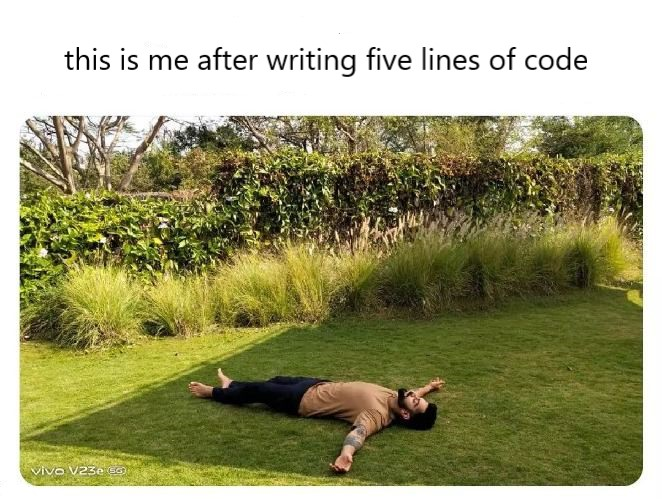
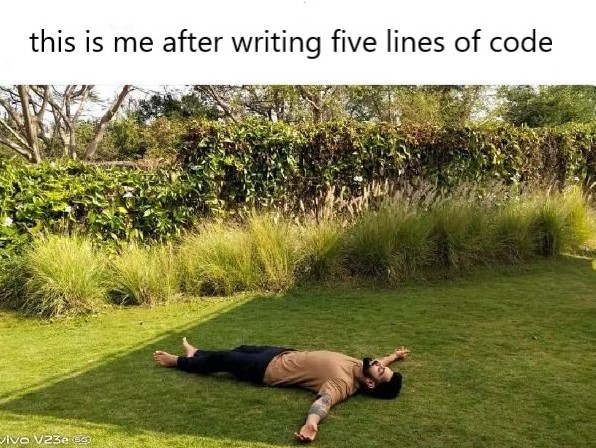
feat: fill memes, body backgroung, fill grid, vertixal and horizontal align of items (Fri, May 13, 2022 06:25:11 PM)

diff --git a/cssMemSlider/index.html b/cssMemSlider/index.html
@@ -4,6 +4,9 @@
     <meta charset="UTF-8">
     <meta http-equiv="X-UA-Compatible" content="IE=edge">
     <meta name="viewport" content="width=device-width, initial-scale=1.0">
+    <link rel="preconnect" href="https://fonts.googleapis.com">
+    <link rel="preconnect" href="https://fonts.gstatic.com" crossorigin>
+    <link href="https://fonts.googleapis.com/css2?family=Roboto:wght@300;400&display=swap" rel="stylesheet">
     <link rel="stylesheet" href="../cssMemSlider/style.css">
     <title>Meme slider</title>
 </head>
@@ -14,36 +17,43 @@
             <label for="meme1" class="slider-label slider-label1"></label>
             <div class="meme-block">
                 <img src="../cssMemSlider/assets/5stringsofcode.jpg" alt="5strings" class="meme">
-                <h2>1</h2>
-            </div>            
+            </div>
+            <p class="txt meme-text1">Every time like this</p>
 
             <input type="radio" name="slider-check" class="slider-check" id="meme2">
             <label for="meme2" class="slider-label slider-label2"></label>
             <div class="meme-block">
                 <img src="../cssMemSlider/assets/blank.jpg" alt="linter" class="meme">
-                <h2>2</h2>
-            </div>           
+            </div>
+            <p class="txt meme-text2">Do you remember the previous task?</p>
 
             <input type="radio" name="slider-check" class="slider-check" id="meme3">
             <label for="meme3" class="slider-label slider-label3"></label>
             <div class="meme-block">              
-                <img src="../cssMemSlider/assets/explane.jpg" alt="explain" class="meme">
-                <h2>3</h2>
-            </div>           
+                <img src="../cssMemSlider/assets/explane1.jpg" alt="explain1" class="meme">
+            </div>
+            <p class="txt meme-text3">Simple explanation #1</p>
 
             <input type="radio" name="slider-check" class="slider-check" id="meme4">
             <label for="meme4" class="slider-label slider-label4"></label>
-            <div class="meme-block">               
-                <img src="../cssMemSlider/assets/harold.jpg" alt="suffering-harold" class="meme">
-                <h2>4</h2>
-            </div>            
+            <div class="meme-block">              
+                <img src="../cssMemSlider/assets/explane2.jpg" alt="explain2" class="meme">
+            </div>
+            <p class="txt meme-text4">Simple explanation #2</p>
 
             <input type="radio" name="slider-check" class="slider-check" id="meme5">
             <label for="meme5" class="slider-label slider-label5"></label>
             <div class="meme-block">               
+                <img src="../cssMemSlider/assets/harold.jpg" alt="suffering-harold" class="meme">
+            </div>
+            <p class="txt meme-text5">true of false?</p>
+
+            <input type="radio" name="slider-check" class="slider-check" id="meme6">
+            <label for="meme6" class="slider-label slider-label6"></label>
+            <div class="meme-block">               
                 <img src="../cssMemSlider/assets/newbie.jpg" alt="newbie" class="meme">
-                <h2>5</h2>
-            </div>           
+            </div>
+            <p class="txt meme-text6">Passed stage</p>
 
         </div>
     </body>

diff --git a/cssMemSlider/style.css b/cssMemSlider/style.css
@@ -1,40 +1,92 @@
+body {
+    background-image: url("../cssMemSlider/assets/memememe.jpg");
+    background-size: cover;
+    background-repeat: no-repeat;
+}
 .slider {
-    width: 50%;
+    box-shadow: 0 0 2em rgba(0, 0, 0, .5);
+    border-radius: 1%;
+    background: linear-gradient(-45deg, rgba(120, 20, 112, 1), rgba(36, 150, 52, 1));
+    margin-top: 2rem;
+    width: 40%;
+    margin-left: auto;
+    margin-right: auto;
     display: grid;
-    grid-template-areas: 
-    "a a a a a"
-    "b c d e f";
+    grid-template-areas:
+    "n n n n n n n n"
+    "a a a a a a a a"
+    "m m m m m m m m"
+    "b c d e f g h l"
+    "j j j j j j j j";
+    grid-template-rows: 2em 2fr 2em 1.5em 2em;
+    grid-template-columns: 6fr 1.5em 1.5em 1.5em 1.5em 1.5em 1.5em 4em;
+    justify-content: center;
+    
 }
 
+.slider p {
+    justify-self: flex-start;
+    font-family: 'Roboto', sans-serif;
+    color: rgb(192, 192, 192);
+    font-weight: bold;
+}
+.slider-check {
+    justify-self: center;
+    align-self: center;
+}
 .meme-block {
+
+    
+    
     width: 100%;
 	opacity: 0;
     grid-area: a;
+    align-self: center;
+    text-align: center;
 }
 .meme-block img {
-    width: 100%;
+    box-shadow: 0 0 2em rgba(0, 0, 0, .5);
+    border-radius: 1%;
+    width: 90%;
 }
-#meme1, .slider-label1 {
+.txt {
+    
+    margin: 0 0 0 2em;
+    opacity: 0;
     grid-area: b;
 }
-#meme2, .slider-label2 {
+#meme1, .slider-label1 {
     grid-area: c;
 }
-#meme3, .slider-label3 {
+#meme2, .slider-label2 {
     grid-area: d;
 }
-#meme4, .slider-label4 {
+#meme3, .slider-label3 {
     grid-area: e;
 }
-#meme5, .slider-label5 {
+#meme4, .slider-label4 {
     grid-area: f;
+}
+#meme5, .slider-label5 {
+    grid-area: g;
+}
+#meme6, .slider-label6 {
+    grid-area: h;
 }
 
 .slider-check:checked + .slider-label + .meme-block {
     display: block;
     opacity: 1;
+    transition-property: opacity;
+    transition-duration: 1s;
 }
-
+.slider-check:checked + .slider-label + .meme-block + .txt {
+    opacity: 1;
+    transition-property: opacity;
+    transition-duration: 1.5s;
+}
 .slider-check:checked + .slider-label {
-	background:#C00;
+    background-size: 2px;
+	background-color:#C00;
+    border-radius: 2em;
 }
